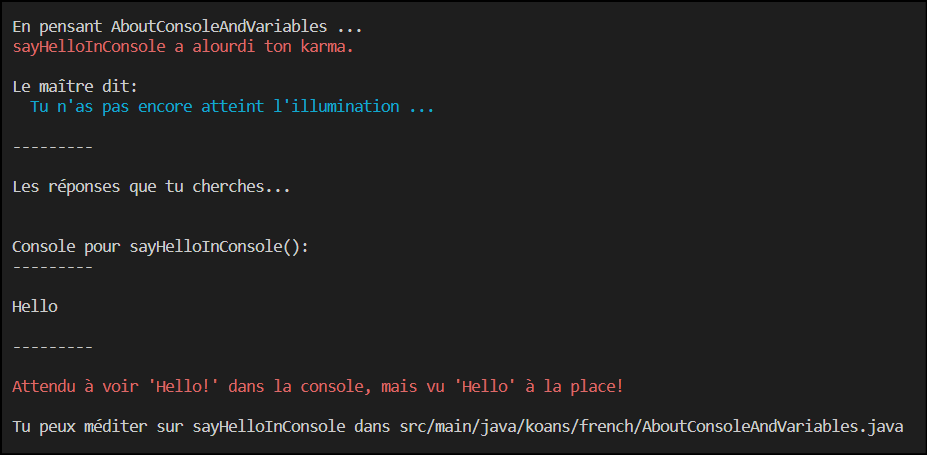
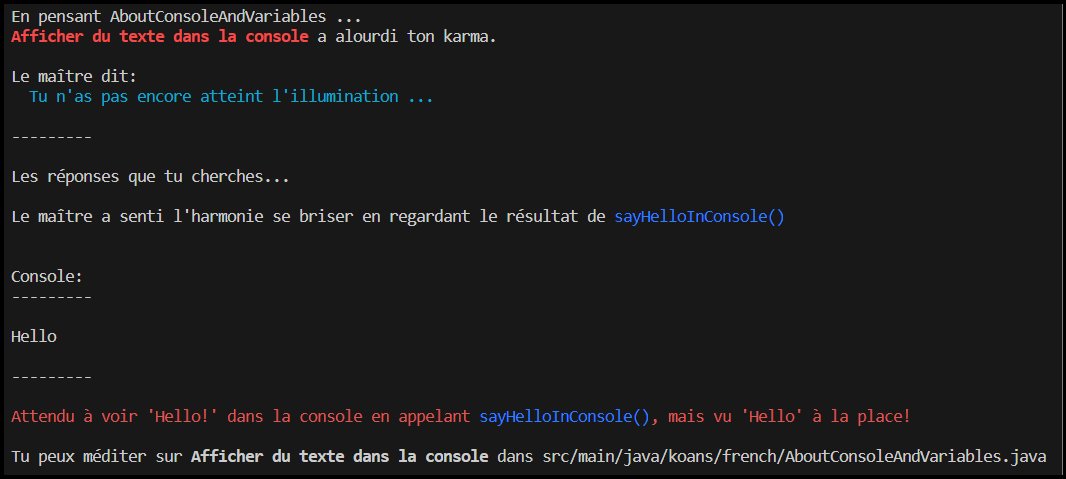
Many improvements, additions and adjustments in the README

diff --git a/src/main/java/engine/Assertions.java b/src/main/java/engine/Assertions.java
@@ -26,10 +26,6 @@ public class Assertions {
         return Optional.ofNullable(param).map((v) -> v.toString()).orElse("");
     }
 
-    private static String whenCalling(final KoanResult res) {
-        return String.format(" when calling %s", res.resultExpressionSourceCode);
-    }
-
     public static ResultAssertion assertIf(final boolean condition, final ResultAssertion inner) {
         return (p, res) -> condition ? inner.validate(p, res) : true;
     }
@@ -43,19 +39,19 @@ public class Assertions {
             final var lineContent = res.nextStdOutLine();
 
             if (lineContent.isEmpty()) {
-                p.println(ConsoleFmt.red(EXPECTED_TO_SEE_IN_CONSOLE_BUT_SAW_NOTHING), expected, whenCalling(res));
+                p.println(format(EXPECTED_TO_SEE_IN_CONSOLE_BUT_SAW_NOTHING, Formats.Red, expected, code(res.resultExpressionSourceCode)));
                 return false;
             }
             if (!lineContent.get().equals(expected)) {
                 if (lineContent.get().equals("")) {
-                    p.println(ConsoleFmt.red(EXPECTED_TO_SEE_IN_CONSOLE_BUT_SAW_NOTHING), expected, whenCalling(res));
+                    p.println(format(EXPECTED_TO_SEE_IN_CONSOLE_BUT_SAW_NOTHING, Formats.Red, expected, code(res.resultExpressionSourceCode)));
                 } else {
-                    p.println(ConsoleFmt.red(EXPECTED_TO_SEE_IN_CONSOLE_BUT_SAW_INSTEAD), expected, whenCalling(res), lineContent.get());
+                    p.println(format(EXPECTED_TO_SEE_IN_CONSOLE_BUT_SAW_INSTEAD, Formats.Red, expected, code(res.resultExpressionSourceCode), lineContent.get()));
                 }
                 return false;
             }
 
-            p.println(ConsoleFmt.green(OK_DISPLAYED_IN_CONSOLE), expected, whenCalling(res));
+            p.println(format(OK_DISPLAYED_IN_CONSOLE, Formats.Green, expected, code(res.resultExpressionSourceCode)));
             return true;
         };
     }
@@ -83,7 +79,7 @@ public class Assertions {
             final var lineContent = res.nextStdOutLine();
 
             if (!lineContent.isEmpty()) {
-                p.println(ConsoleFmt.red(EXPECTED_TO_SEE_NOTHING_IN_CONSOLE_BUT_SAW_INSTEAD), whenCalling(res), lineContent.get());
+                p.println(format(EXPECTED_TO_SEE_NOTHING_IN_CONSOLE_BUT_SAW_INSTEAD, Formats.Red, code(res.resultExpressionSourceCode), lineContent.get()));
                 return false;
             }
 

diff --git a/src/main/java/engine/Texts.java b/src/main/java/engine/Texts.java
@@ -127,17 +127,17 @@ public class Texts {
         local("Ok: displayed an empty line in the console.")
         .fr("Ok: affiché une ligne vide dans la console.");
     public static Localizable<String> EXPECTED_TO_SEE_IN_CONSOLE_BUT_SAW_NOTHING =
-        local("Expected to see '%s' in the console%s, but did not see it!")
-        .fr("Attendu à voir '%s' dans la console%s, mais ne l'a pas vu!");
+        local("Expected to see '%s' in the console when calling %s, but did not see it!")
+        .fr("Attendu à voir '%s' dans la console en appelant %s, mais ne l'a pas vu!");
     public static Localizable<String> EXPECTED_TO_SEE_IN_CONSOLE_BUT_SAW_INSTEAD =
-        local("Expected to see '%s' in the console%s, but saw '%s' instead!")
-        .fr("Attendu à voir '%s' dans la console%s, mais vu '%s' à la place!");
+        local("Expected to see '%s' in the console when calling %s, but saw '%s' instead!")
+        .fr("Attendu à voir '%s' dans la console en appelant %s, mais vu '%s' à la place!");
     public static Localizable<String> OK_DISPLAYED_IN_CONSOLE =
         local("Ok: displayed '%s' in the console%s.")
         .fr("Ok: affiché '%s' dans la console%s.");
     public static Localizable<String> EXPECTED_TO_SEE_NOTHING_IN_CONSOLE_BUT_SAW_INSTEAD =
-        local("Expected to not see anything more in the console%s, but saw '%s' instead!")
-        .fr("Attendu à ne plus rien voir dans la console%s, mais vu '%s' à la place!");
+        local("Expected to not see anything more in the console when calling %s, but saw '%s' instead!")
+        .fr("Attendu à ne plus rien voir dans la console en appelant %s, mais vu '%s' à la place!");
     public static Localizable<String> OK_ASKED_FOR_LINE_IN_CONSOLE =
         local("Ok: asked for a line in the console.")
         .fr("Ok: demandé du texte dans la console.");

diff --git a/src/main/java/koans/french/AboutConsoleAndVariables.java b/src/main/java/koans/french/AboutConsoleAndVariables.java
@@ -28,7 +28,7 @@ public class AboutConsoleAndVariables {
      * 
      */    
     public static void sayHelloInConsole() {
-
+        System.out.println("Hello!");
     }
 
     /**

diff --git a/src/main/java/koans/english/AboutConsoleAndVariables.java b/src/main/java/koans/english/AboutConsoleAndVariables.java
@@ -28,7 +28,7 @@ public class AboutConsoleAndVariables {
      * 
      */
     public static void sayHelloInConsole() {
-
+        System.out.println("Hello!");
     }
 
     /**

diff --git a/README.md b/README.md
@@ -23,11 +23,12 @@
 Java Koans for the FRC is an interactive, step by step, course to teach Java to students engaged in the [First Robotics Competition](https://www.firstinspires.org/robotics/frc). It requires no previous experience in programming. It does not intend to teach the entirety of the Java language, but rather most of the fundamentals required to start learning how to program a FRC robot.
 
 ## Getting Started with VS Code
+
 To get started you will need to either install VS Code or use GitHub Codespaces, which is a browser based IDE. If you are unable to install VS Code, because you're on a Chromebook or do not have permissions to install an application, you can skip ahead to [Getting Started with GitHub Codespaces](#getting-started-with-github-codespaces)
 
 To install VS Code, you will need to install [WPILib](https://docs.wpilib.org/en/stable/docs/zero-to-robot/step-2/wpilib-setup.html) first to run the Java Koans for the FRC.
 
-Once installed, download the [latest release](https://github.com/jletroui/FrcJavaKoans/releases/download/v1.0/FrcJavaKoans.zip) of the Java Koans.
+Once installed, download the [latest release](https://github.com/jletroui/FrcJavaKoans/releases/download/v1.1/FrcJavaKoans.zip) of the Java Koans.
 
 Then, extract it somewhere on your computer. Go to the folder where you have downloaded the koans, righ-click on the koans zip file, and choose 'Extract All'. Choose your destination folder, for example, a `/src` folder within your `Documents` folder.
 
@@ -47,6 +48,7 @@ Note: VS Code will ask you if you trust the code within the folder. You'll have 
 You are ready to go!
 
 ## Getting Started with GitHub Codespaces
+
 GitHub Codespaces provides a cloud-based development environment. It allows you to effortlessly set up and access a consistent development environment directly from your web browser. This is useful when your students only have access to Chromebooks or for other reasons are not able to install and configure VS Code.
 
 To get started with GitHub Codespaces, simply click the "Code" button and select "Create codespace on Master" to create or access your development environment.
@@ -75,9 +77,11 @@ This will open what is called a _terminal_ at the bottom of the VS Code window a
 
 ![First result](images/result1.png)
 
-The master of the Java Koans is telling you a lot of things at once, so let's decompose a bit.
+The master of the Java Koans is telling you a lot of things at once, so let's decompose a bit:
 
-First, it tells you that it is trying to teach you  `AboutConsoleAndVariables`. Then it tells you that you did not complete the `AboutConsoleAndVariables.sayHelloInConsole` koan. Which is normal, because you have not even started yet! Then it shows a mysterious `Console` box, which we will ignore for now. At the very bottom, it tells you you can look for `sayHelloInConsole` in the `src/main/java/koans/english/AboutConsoleAndVariables.java` file.
+![First result, commented](images/result1_commented.png)
+
+First, it tells you that it is trying to teach you  `AboutConsoleAndVariables`. Then it tells you that you did not complete the `Displaying some text in the console` koan. Which is normal, because you have not even started yet! Then it shows a mysterious `Console` box, which we will ignore for now. At the very bottom, it tells you you can look for `Displaying some text in the console` in the `src/main/java/koans/english/AboutConsoleAndVariables.java` file.
 
 ### Opening the koan file
 
@@ -263,13 +267,30 @@ This course intent to come batteries included, with 100% of the information need
 
 We have found that students learn faster if mentors are not giving solutions to students' issues, but instead ask them open questions about what they don't understand about the exercise instructions or displayed error. Programming is, most of the time, about figuring out what little detail have been overlooked. Thus, helping students to look for answers by themselves in the koans' text will help them become more autonomous faster when it will be time to program and debug a robot.
 
-If you are interested in contributing, please take a look at [CONTRIBUTING.md](CONTRIBUTING.md) :)
+### Topics included
+
+* Printing to and reading from the console
+* Variables
+* `int`, `boolean`, `String`, `double` basic types
+* `if`, `else`, `if else` construct
+* Methods
+* `while` loops
+* Packages and classes with static methods
+* Objects, constructors, fields
+
+### Contributing and learning more
+
+If you are interested in learning more about this course or contributing to it, please take a look at [CONTRIBUTING.md](CONTRIBUTING.md) :)
 
 ## Credits
 
 Created by a mentor from the [3550 Robotronix team](https://www.instagram.com/3550robotronix/) (Montréal, Canada).
 
 Heavily inspired by the wonderful [Ruby Koans](https://www.rubykoans.com/).
+
+The Github Codespaces feature is a contribution of `jmcconne10`.
+
+Typos have been fixed by `someonesomething`.
 
 Many thanks to early testers who gave me feedback: Andy, Noémie, Chenxin, and Dumitru.
 
@@ -299,11 +320,12 @@ Many thanks to early testers who gave me feedback: Andy, Noémie, Chenxin, and D
 Les Koans Java pour la FRC forment un cours interactif, pas à pas, pour enseigner le Java à des élèves engagés dans la [Compétition Robotique First](https://www.firstinspires.org/robotics/frc). Il ne requiert aucune expérience préalable en programmation. L'intention n'est pas d'être un cours complet sur Java, mais plutôt d'apprendre juste ce qu'il faut des fondamentaux pour pouvoir commencer à apprendre à programmer un robot FRC avec WPILib.
 
 ## Comment commencer avec VS Code
+
 Pour commencer, vous devrez soit installer VS Code, soit utiliser GitHub Codespaces, qui est un environnement de développement intégré basé sur navigateur. Si vous ne pouvez pas installer VS Code, par exemple si vous utilisez un Chromebook ou si vous n'avez pas les autorisations nécessaires pour installer une application, vous pouvez passer à l'étape suivante [Comment commencer avec GitHub Codespaces](#comment-commencer-avec-github-codespaces).
 
 Si ce n'est déjà fait, tu vas devoir installer [WPILib](https://docs.wpilib.org/en/stable/docs/zero-to-robot/step-2/wpilib-setup.html) pour pouvoir exécuter les Koans Java pour la FRC.
 
-Une fois installé, télécharge [la dernière version](https://github.com/jletroui/FrcJavaKoans/releases/download/v1.0/FrcJavaKoans.zip) des Koans Java.
+Une fois installé, télécharge [la dernière version](https://github.com/jletroui/FrcJavaKoans/releases/download/v1.1/FrcJavaKoans.zip) des Koans Java.
 
 Ensuite, décompresse les quelque part sur ton ordinateur. Pour ce faire, va dans le répertoire où tu as téléchargé les koans, clic-droit dessus, et choisis "Extraire Tout". Choisis un répertoire de destination, par exemple, un répertoire `/src` dans ton répertoire `Documents`.
 
@@ -323,6 +345,7 @@ Note: VS Code va te demander si tu fais confiance à ce code. Tu vas devoir rép
 Tu es maintenant prêt·e!
 
 ## Comment commencer avec GitHub Codespaces
+
 Ce dépôt est configuré pour une utilisation aisée avec GitHub Codespaces. GitHub Codespaces fournit un environnement de développement basé sur le cloud. Il vous permet de configurer et d'accéder facilement à un environnement de développement cohérent directement depuis votre navigateur web. Cela est particulièrement utile lorsque vos étudiants n'ont accès qu'à des Chromebooks ou pour d'autres raisons ne peuvent pas installer et configurer Visual Studio Code.
 
 Pour commencer avec GitHub Codespaces, cliquez simplement sur le bouton "Code" et sélectionnez "Créer un espace de code sur Master" pour créer ou accéder à votre environnement de développement.
@@ -349,7 +372,9 @@ Cela va ouvrir ce que l'on appelle un _terminal_ dans le bas de la fenêtre de V
 
 ![Premier résultat](images/result1_fr.png)
 
-Le maître des Koans Java te dit beaucoup de choses d'un coup. Alors décomposons tout ça.
+Le maître des Koans Java te dit beaucoup de choses d'un coup. Alors décomposons tout ça:
+
+![Premier résultat, commenté](images/result1_commented_fr.png)
 
 Tout d'abord, il te dit qu'il essaie de t'enseigner `AboutConsoleAndVariables`. Ensuite, il te dit que tu n'as pas complété le koan `AboutConsoleAndVariables.sayHelloInConsole`. Ce qui est normal, car tu n'a même pas encore commencé! Ensuite, il te montre une boîte étrange appelée `Console`, que l'on va ignorer pour le moment. Tout en bas,il te dit que tu peux chercher `sayHelloInConsole` dans le fichier `src/main/java/koans/english/AboutConsoleAndVariables.java`.
 
@@ -542,13 +567,30 @@ Ce cours se veut fournir toute l'information nécessaire pour qu'un élève moti
 
 Nous avons trouvé que les élèves passent à travers le cours plus rapidement, et intègrent mieux les notions si le ou la mentor ne lui donne pas de solution à ses problèmes. À la place, le ou la mentor peut garder l'élève dans une posture active en lui demandant ce qu'iel ne comprend pas dans l'énoncé de l'exercice, ou du message d'erreur, et le / la guider dans des stratégies pour comprendre par iel même. La programmation consiste, la plupart du temps, à trouver quel petit détail nous avons oublié. En aidant les élèves à trouver les ressources pour résoudre les problèmes eux-même, ils deviennent au final autonomes plus rapidement lorsqu'ils débogueront un programme de robot.
 
-Si vous êtes intéressés à contribuer à ce cours, rendez-vous sur la page [CONTRIBUTING.md](CONTRIBUTING.md) :)
+### Sujets inclus
+
+* Écrire dans, et lire de, la console
+* Variables
+* Types basiques `int`, `boolean`, `String`, `double`
+* Instructions `if`, `else`, `if else`
+* Méthodes
+* Boucles `while`
+* Packages et classes avec méthodes statiques
+* Objets, constructeurs, champs
+
+### En savoir plus, contribuer
+
+Si vous êtes intéressés à en apprendre plus ou à contribuer à ce cours, rendez-vous sur la page [CONTRIBUTING.md](CONTRIBUTING.md) :)
 
 ## Attributions et remerciements
 
 Créé par un mentor de [l'équipe 3550 Robotronix](https://www.instagram.com/3550robotronix/) (Montréal, Canada).
 
 Grandement inspiré par les merveilleux [Ruby Koans](https://www.rubykoans.com/).
+
+La fonctionnalité Github Codespaces est une contribution de `jmcconne10`.
+
+Plusieurs erreurs de texte ont été corrigées par `someonesomething`.
 
 Grand merci aux premiers testeurs qui ont donné leur avis: Andy, Noémie, Chenxin, et Dumitru.
 

diff --git a/CONTRIBUTING.md b/CONTRIBUTING.md
@@ -18,9 +18,11 @@ Most resources are using a fair amount of text and go into lots of details. Kids
 
 ### Only what's necessary, not more
 
-The primary goal of FRC Java Koans are not to teach all of Java capabilities and available sugar syntax, but rather the minimum required before mentors can start teaching how to program a robot with WPILib. Lots of resources are, for example, explaining how to express conditions (the if / else statement, but also the ternary operator and the switch / case statement). We chose a single one. The reason is that kids are coming for programming robots. We observed they are way more motivated to learn about a new syntax or concept once they have a robot moving, and that syntax or concept unlocks a new cool trick of the robot. So we are teaching the necessary remainder of Java during the robot programming lessons.
+The primary goal of FRC Java Koans are not to teach all of Java capabilities and available sugar syntax. But rather, teach them the minimum required before mentors can start teaching how to program a robot with WPILib. Lots of resources are, for example, explaining how to express conditions (the if / else statement, but also the ternary operator and the switch / case statement). We chose a single one. The reason is that kids are coming for programming robots. We observed they are way more motivated to learn about a new syntax or concept once they have a robot moving, and that syntax or concept unlocks a new cool trick of the robot. So we are teaching the necessary remainder of Java during the robot programming lessons.
 
-You might ask why not start right away with programming the robot then? The students are way too lost in the midst of pages of immensely arcane syntax, and we think it is actually slower to teach that way in the long run. In particular, it is requiring a lot more repetition, because they jump too fast from one concept they don't master to another, and don't register them the first times they hear about it.
+In particular: kids don't need to know about functionnal interfaces, arrays, or for loops to learn to program a basic `TimedRobot`. Therefore, we try to bring them as fast as possible to the point they can program a robot simply. Once they have a robot moving, teaching them functionnal interfaces (for example when teaching them commands) or arrays (when teaching them swerve drive programming) can usually be done while they are programming the robot. They appear to not require specific exercises to master those.
+
+You might ask why not start right away with programming the robot then? The students are way too lost in the midst of pages of arcane syntax, and we observed anecdotally it is slower to teach that way. In particular, it is requiring a lot more repetition, because they jump too fast from one concept they don't master to another, and don't register them the first time they hear about it.
 
 ### Enough exercises
 
@@ -61,7 +63,7 @@ We expressed above a concern for saving student's attention / motivation / time.
 
 - Strive to work on a bare WPILib installation: on VSCode with no need for a plugin.
 - Simple start: no dependency other than the Java standard library, so as to avoid a build step with a dependency management tool.
-- Java 11, because as of 2023, this is the version used by default in WPILib's VSCode.
+- Java 17, because as of 2024, this is the version used by default in WPILib's VSCode.
 
 ### Compromises and limitations
 
